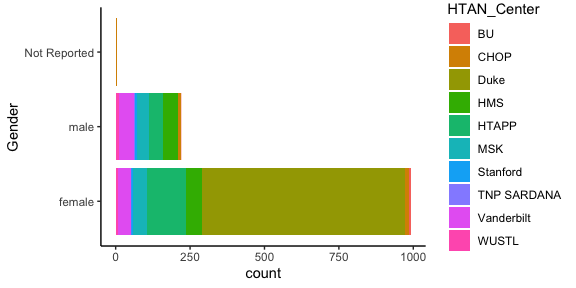
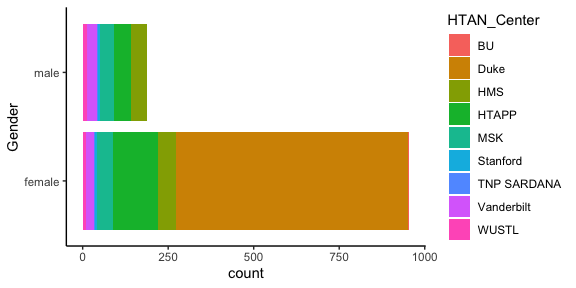
adtional filtering and more explantory text

diff --git a/HTAN/Explore_HTAN_Clinical_Biospecimen_Assay_Metadata.md b/HTAN/Explore_HTAN_Clinical_Biospecimen_Assay_Metadata.md
@@ -15,7 +15,7 @@ output:
 
 # 1. Introduction & Overview 
 
-[HTAN](https://humantumoratlas.org/) is a National Cancer Institute (NCI)-funded Cancer Moonshot$^{SM}$ initiative to construct 3-dimensional atlases of the dynamic cellular, morphological, and molecular features of human cancers as they evolve from precancerous lesions to advanced disease. [Cell April 2020](https://www.sciencedirect.com/science/article/pii/S0092867420303469) 
+[HTAN](https://humantumoratlas.org/) is a National Cancer Institute (NCI)-funded Cancer Moonshot$^{SM}$ initiative to construct 3-dimensional atlases of the dynamic cellular, morphological, and molecular features of human cancers as they evolve from precancerous lesions to advanced disease ( [Cell April 2020](https://www.sciencedirect.com/science/article/pii/S0092867420303469) ).
 
 Clinical data, sample biospecimen data and assay files in HTAN have a rich set of annotations supplied by HTAN data contributors.  These annotations are made according to the [HTAN Data model](https://data.humantumoratlas.org/standards), a set of standards defined by the HTAN consortium. The supplied values of these attributes have been collected into comprehensive data tables on the cloud, using the Google BigQuery structure that is part of Google Cloud Project.
 
@@ -25,7 +25,7 @@ This example notebook illustrates how to make use of HTAN Google BigQuery metada
 
 ### 1.2 Inputs, Outputs, & Data
 
-The originating data can be found on the [HTAN Data Portal]([HTAN](https://data.humantumoratlas.org/)), and the compiled tables on ISB-CGC (location pending).
+The originating data can be found on the [HTAN Data Portal](https://data.humantumoratlas.org/), and the compiled tables are on the [Cancer Gateway in the Cloud](https://isb-cgc.appspot.com/).
 
 ### 1.3 Notes
 
@@ -41,20 +41,20 @@ suppressMessages(library(knitr))
 
 # 3. Google Authentication
 
-Running the BigQuery cells in this notebook requires a Google Cloud Project, instructions for creating a project can be found in the [Google Documentation](https://cloud.google.com/resource-manager/docs/creating-managing-projects#console). The instance needs to be authorized to bill the project for queries. For more information on getting started in the cloud see 'Quick Start Guide to ISB-CGC' and alternative authentication methods can be found in the [Google Documentation](https://cloud.google.com/resource-manager/docs/creating-managing-projects#console).
+Running the BigQuery cells in this notebook requires a Google Cloud Project. Instructions for creating a project can be found in [Google cloud documentation](https://cloud.google.com/resource-manager/docs/creating-managing-projects#console). The instance needs to be authorized to bill the project for queries. For more information on getting started see [Quick Start Guide to ISB-CGC](https://isb-cancer-genomics-cloud.readthedocs.io/en/latest/sections/HowToGetStartedonISB-CGC.html). Alternative authentication methods can be found in the [Google Documentation](https://cloud.google.com/resource-manager/docs/creating-managing-projects#console).
 
 
 ```r
 billing <- 'your_project_id' # Insert your project ID in the ''
-if (billing == 'your_project_number') {
-  print('Please update the project number with your Google Cloud Project')
+if (billing == 'your_project_id') {
+  print('Please update the project id with your Google Cloud Project')
 }
 ```
 
 
 # 4. Analyzing Clinical Data in HTAN
 
-In the [HTAN Data model](https://data.humantumoratlas.org/standards), [Tier 1 Clinical Data](https://data.humantumoratlas.org/standard/clinical) has seven contributions: Demographics, Diagnosis, Exposure, Family History, Follow Up, Molecular Test, and Therapy. All of HTAN demographic data is collected into a single Demographics table (*isb-cgc-bq.HTAN.clinical_tier1_demographics_current*) in Google BigQuery. The same is true of Diagnosis, and so on. 
+In the [HTAN Data model](https://data.humantumoratlas.org/standards), [Tier 1 Clinical Data](https://data.humantumoratlas.org/standard/clinical) has seven components: Demographics, Diagnosis, Exposure, Family History, Follow Up, Molecular Test, and Therapy. All of HTAN demographic data is collected into a single Demographics table (*isb-cgc-bq.HTAN.clinical_tier1_demographics_current*) in Google BigQuery. The same is true of Diagnosis, and so on. 
 
 ### 4.1 Demographics
 
@@ -69,7 +69,7 @@ demographics <- demographics %>% select(-entityId,-Component,-`Data_Release`) %>
 demographics$HTAN_Center <- gsub("HTAN ","",demographics$HTAN_Center)
 ```
 
-The number of rows of this table is the mumber of participants for which demographics is reported: nrow(demographics)=1218. The list of IDs of all HTAN Participants with demographic annotations is 
+The number of rows of this table is the number of participants for which demographics is reported: nrow(demographics)=1218. The list of IDs of all HTAN Participants with demographic annotations is 
 
 
 ```r
@@ -124,26 +124,23 @@ These are the attributes of the HTAN [Clinical Tier 1 Demographics Data Model](h
 Race is one of the Demographics attributes. Let's tabulate reported Race in HTAN and report fraction in percent. 
 
 ```r
-demographics %>% group_by(Race) %>% tally() %>% mutate(Percent=round(100*n/nrow(demographics),1)) %>% kable() 
+demographics_race_reported <- demographics %>% filter(Race != "unknown" & Race != "Unknown" & Race != "Not Reported" & Race != "not allowed to collect" )
+demographics_race_reported %>% group_by(Race) %>% tally() %>% mutate(Percent=round(100*n/nrow(demographics_race_reported),1)) %>% kable() 
 ```
 
 
 
 |Race                      |   n| Percent|
 |:-------------------------|---:|-------:|
-|asian                     |  21|     1.7|
-|black or african american | 217|    17.8|
-|not allowed to collect    |   1|     0.1|
-|Not Reported              |  74|     6.1|
+|asian                     |  21|     1.9|
+|black or african american | 217|    19.3|
 |Other                     |   2|     0.2|
-|unknown                   |   5|     0.4|
-|Unknown                   |  16|     1.3|
-|white                     | 882|    72.4|
+|white                     | 882|    78.6|
 
 Here is barchart of the distribution
 
 ```r
-demographics %>% ggplot(aes(y=Race,fill=HTAN_Center)) + 
+demographics_race_reported %>% ggplot(aes(y=Race,fill=HTAN_Center)) + 
   geom_bar() + theme_classic() 
 ```
 
@@ -155,20 +152,20 @@ Similarly, here is a barchart for Gender
 
 
 ```r
-demographics %>% group_by(Gender) %>% tally() %>% mutate(Percent=round(100*n/nrow(demographics),1)) %>% kable()
+demographics_gender_reported <- demographics %>% filter(Race != "Not Reported") 
+demographics_gender_reported %>% group_by(Gender) %>% tally() %>% mutate(Percent=round(100*n/nrow(demographics),1)) %>% kable()
 ```
 
 
 
-|Gender       |   n| Percent|
-|:------------|---:|-------:|
-|female       | 992|    81.4|
-|male         | 221|    18.1|
-|Not Reported |   5|     0.4|
+|Gender |   n| Percent|
+|:------|---:|-------:|
+|female | 955|    78.4|
+|male   | 189|    15.5|
 
 
 ```r
-demographics %>% ggplot(aes(y=Gender,fill=HTAN_Center)) + 
+demographics_gender_reported %>% ggplot(aes(y=Gender,fill=HTAN_Center)) + 
   geom_bar() + theme_classic() 
 ```
 
@@ -242,7 +239,6 @@ therapy_yes %>% group_by(HTAN_Center,Treatment_Type) %>% tally() %>% arrange(des
 Biospecimen data in HTAN conforms to the [Biospecimen Data](https://data.humantumoratlas.org/standard/biospecimen) standard, and all annotated values can be obtained in a single BigQuery table.
 
 
-
 ```r
 sql <- "SELECT * FROM `isb-cgc-bq.HTAN.biospecimen_current`"
 tb <- bq_project_query(billing, sql)
@@ -252,7 +248,7 @@ biospecimen <- mutate(biospecimen,HTAN_Participant_ID=unlist(map(HTAN_Biospecime
 ```
 Number of unique biospecimens : 4789, from 1228 participants. Of these,  2280 list an HTAN Participant ID as Parent ID.
 
-Let's take a look at the various storage methods used for HTAN biospecimens
+As an example, let's take a look at the various storage methods used for HTAN biospecimens
 
 ## Storage Methods
 
@@ -277,10 +273,16 @@ table(biospecimen_storage_noted$Storage_Method,biospecimen_storage_noted$HTAN_Ce
 
 # 6. Assay types in HTAN 
 
-Annotated files for each assay type
+HTAN has multiple assay types, probing cancers and the tumor microenvironment, at molecular, cellular, and tissue level, in bulk, single-cell, and spatial assays level. As described on the [HTAN Data Standards](https://data.humantumoratlas.org/standards) page, these are arranged into data "Levels" corresponding to bioinformatic processing steps. In BigQuery each assay type and level is collected into a single table. Combining all of them (the query is a little long to display, but can be seen in the code), we can tally the number of files available for each.
 
 
-There are a total of 27033 annotated assay files. This is the breakdown by center and Component, which corresponds to assay type and Level. 
+There are a total of 25321 annotated assay files. This is the breakdown by center and Component, which corresponds to assay type and Level. 
+
+
+```r
+apc_tb %>% kable()
+```
+
 
 
 |Component         |  HMS| OHSU| Stanford| WUSTL| Duke| Vanderbilt| MSK| TNP SARDANA| CHOP| HTAPP|  BU|
@@ -288,7 +290,8 @@ There are a total of 27033 annotated assay files. This is the breakdown by cente
 |BulkRNA-seqLevel1 |  444|    8|      338|   232|    0|          0|   0|           0|    0|     0|   0|
 |BulkRNA-seqLevel2 |  222|    2|        0|     0|    0|          0|   0|           0|    0|     0|   0|
 |BulkRNA-seqLevel3 |    1|    7|        0|     0|    0|          0|   0|           0|    0|     0|   0|
-|BulkWESLevel1     |    0|  288|      216|   416| 2348|        388|   0|           0|    0|     0|   0|
+|BulkWESLevel1     |    0|  144|      108|   208| 1174|        194|   0|           0|    0|     0|   0|
+|BulkWESLevel2     |    0|   19|        0|     0|    0|         97|   0|           0|    0|     0|   0|
 |ImagingLevel2     |  398|   61|        0|   150|  769|         30|  58|          71|    0|     0|   0|
 |MolecularTest     | 1025|  124|        0|     0|  340|         92| 491|           3|   30|   207|   0|
 |OtherAssay        |    0|    0|     1100|     0|    0|          0|   0|           0|    0|     0|   0|
